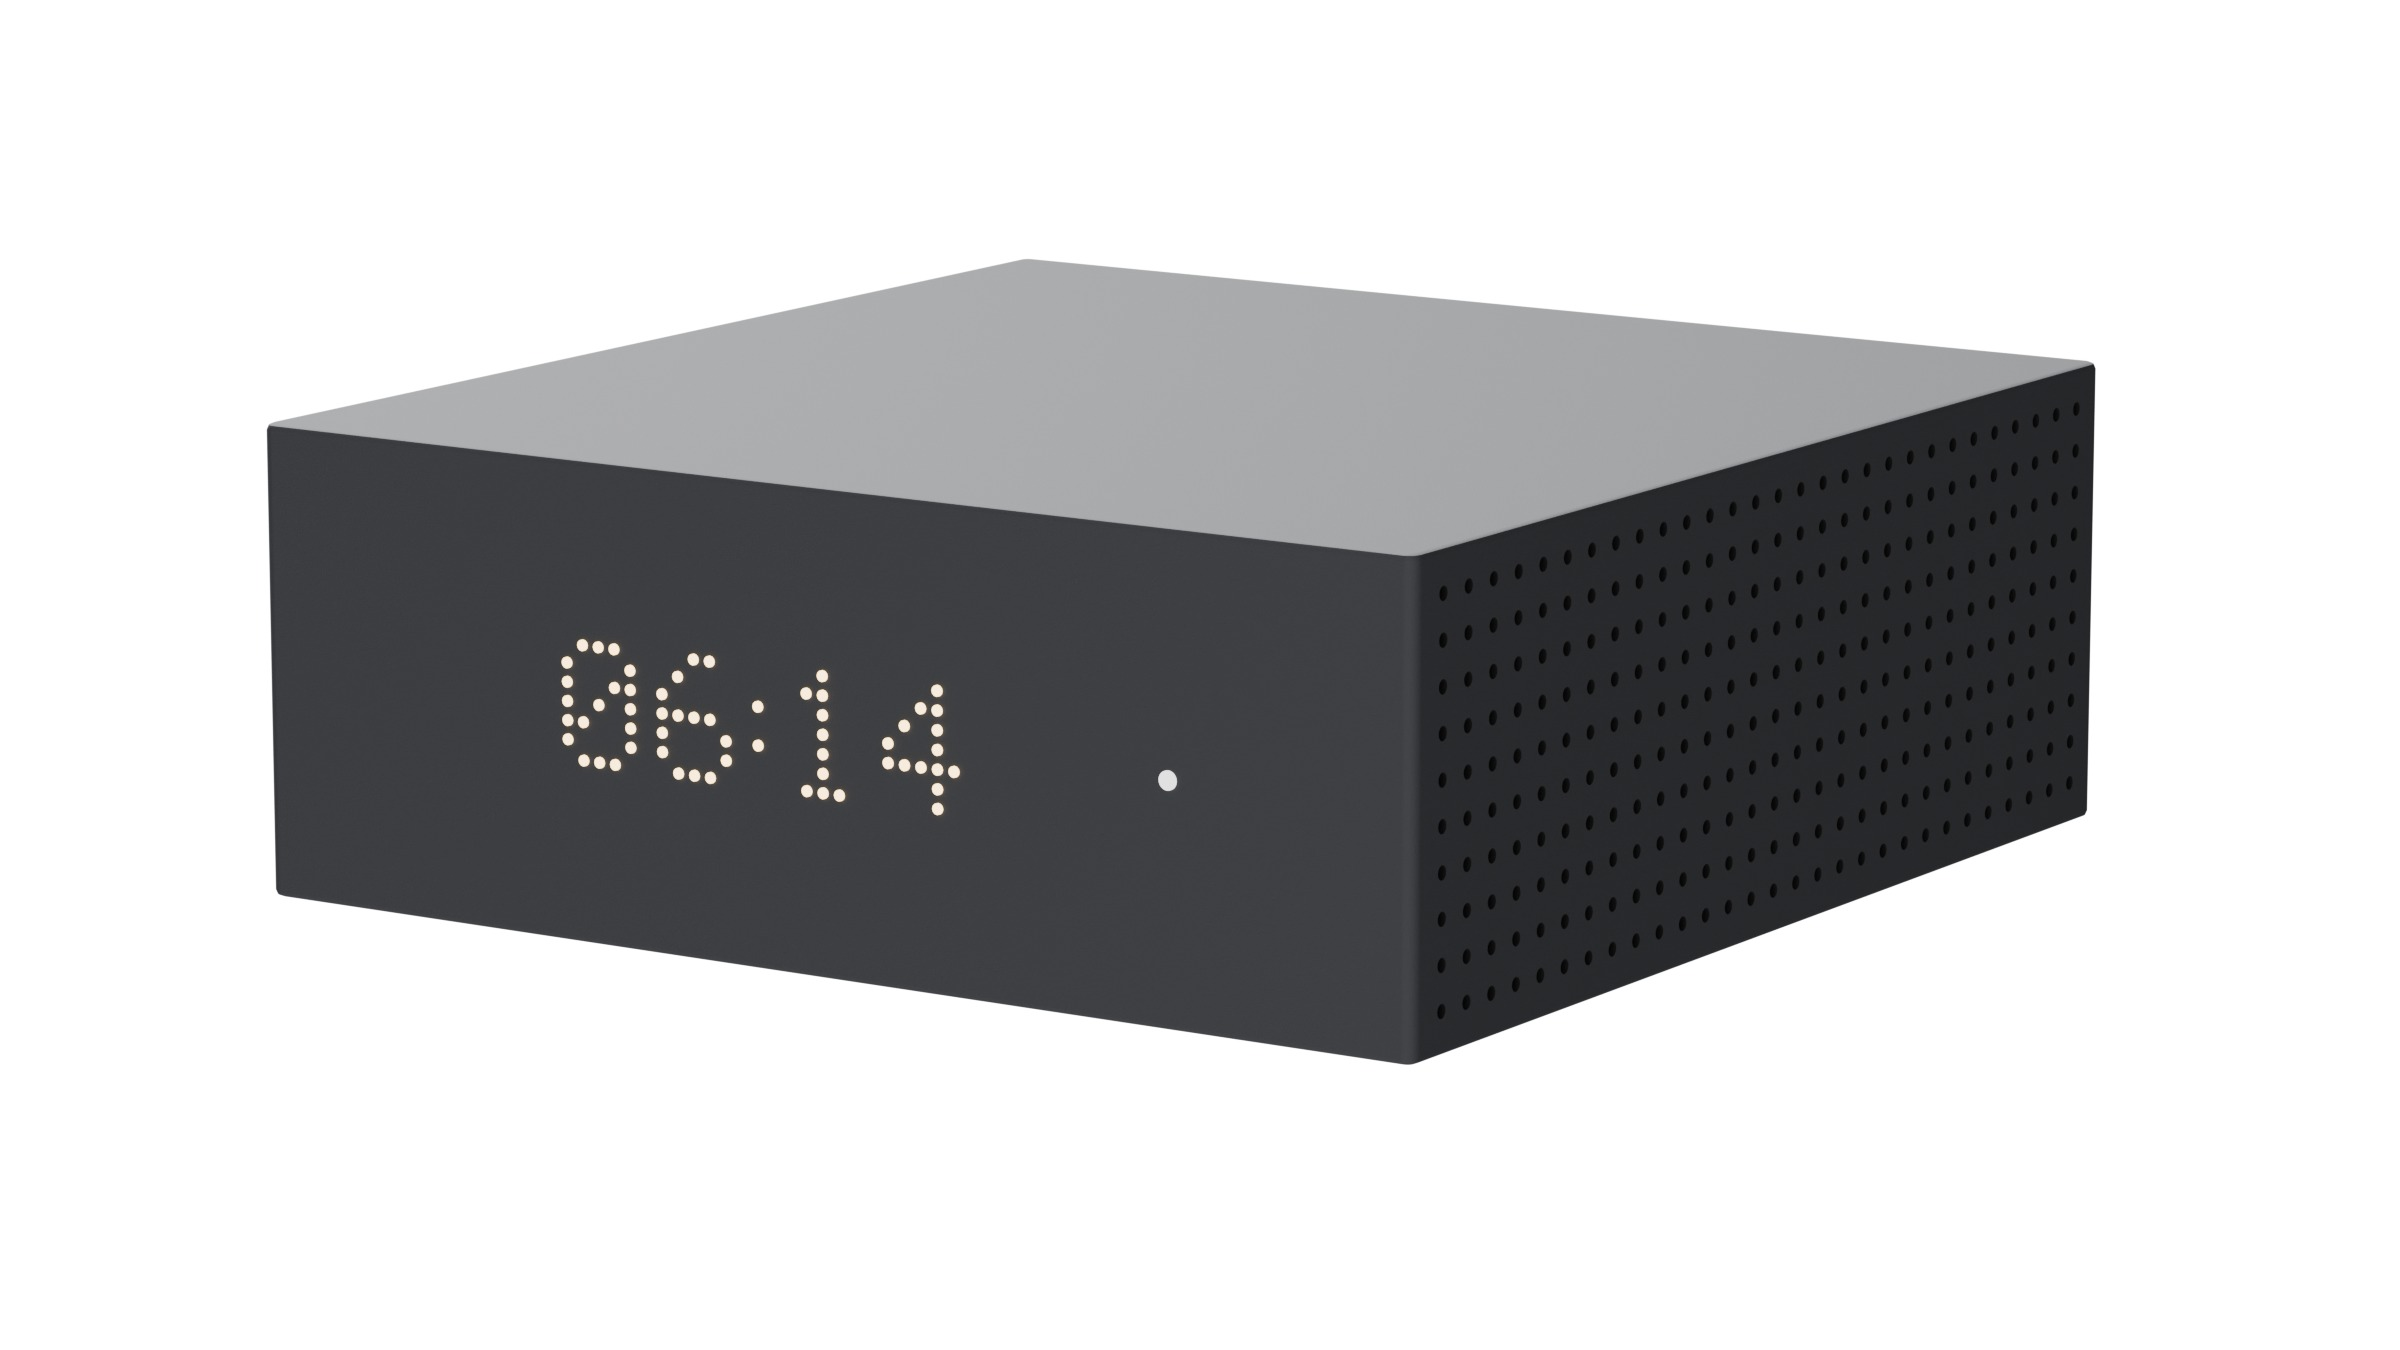
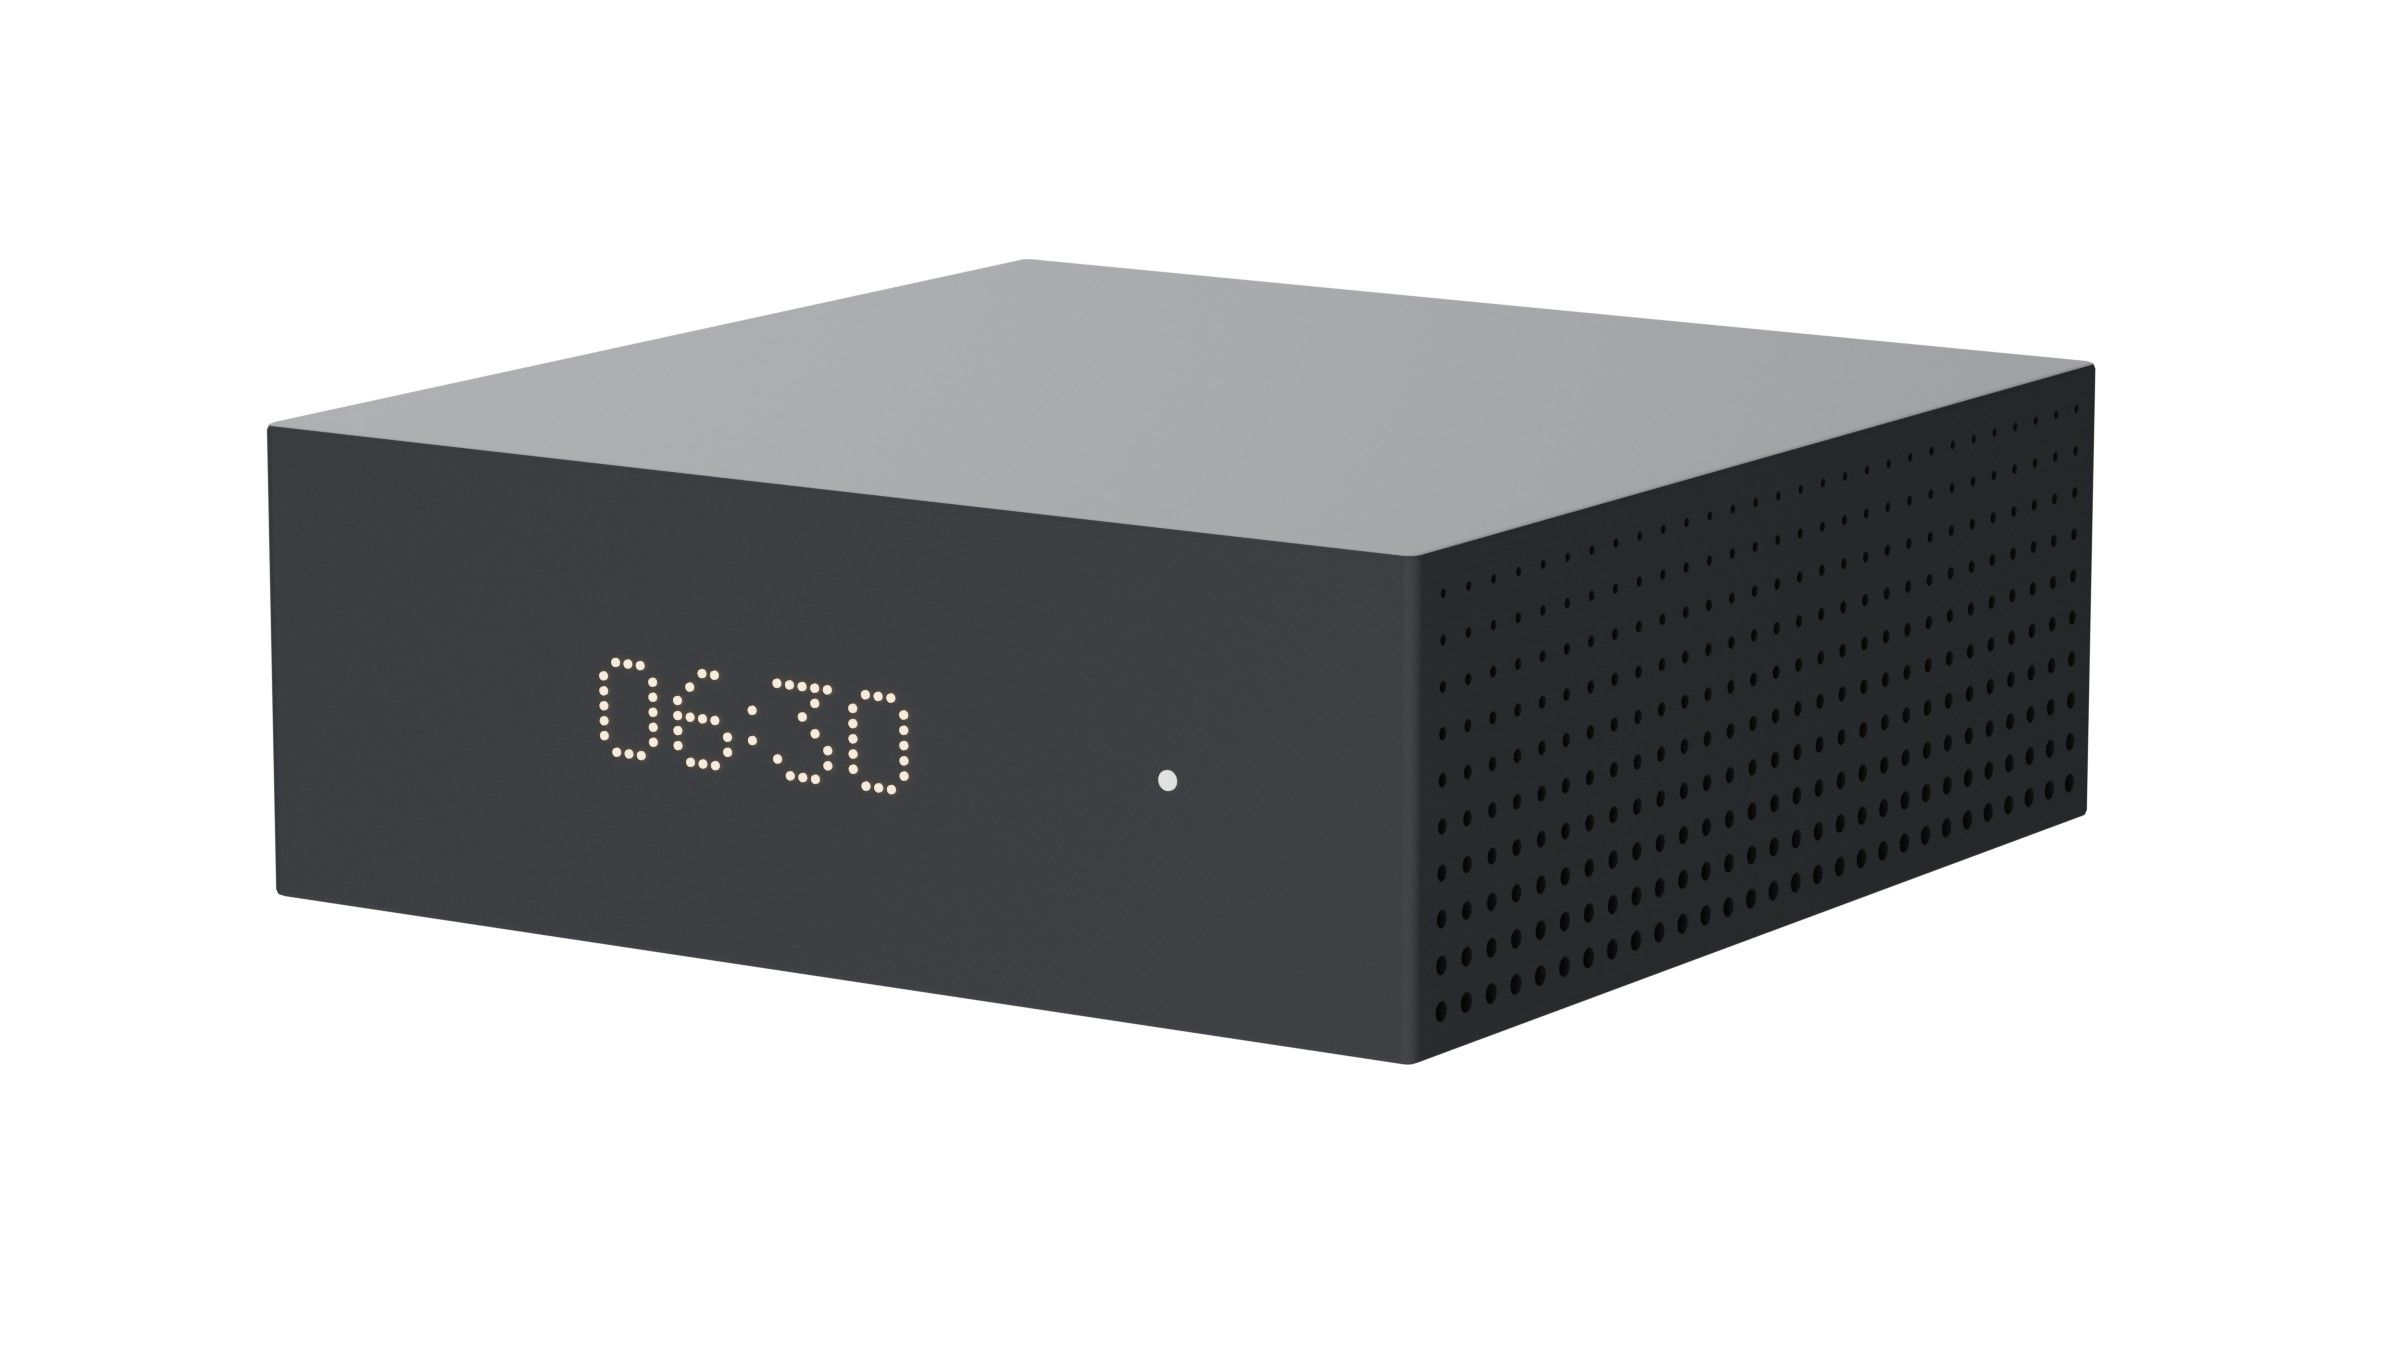
Deck: AuraWake renders with the time redone with the fine dot matrix

Changed region(s): [[0.2188, 0.4667, 0.4062, 0.5911]]

diff --git a/HANDOFF.md b/HANDOFF.md
@@ -1029,6 +1029,11 @@ When a CLOUD session hits something that needs the local environment, it must:
   speaker column, rows centred on MID; 25 × 7 dots, centre on column −5; 5×7 font with a plain 0; lit dot 0.72 mm
   behind ~0.1 mm laser micro-holes (invisible when off). Re-rendered views/lit.jpg, new views/time.jpg (3/4 close-up),
   iso-base.png; schema key 2 points at the digits' left end.
+- **2026-10-29 · LOCAL (40)** · Renders with the time redone with the fine matrix: render-lit.jpg (= views/lit.jpg),
+  render-dawn.jpg (dawn scene, plastic). Proposal sketch (deck/out/back-sketch.png, not in the deck): back = both
+  free areas at the same 8.5 mm radius, laser-etched marks 2 mm tall at the same height, "5V ⎓ 3A" over the USB-C
+  and the Bluetooth rune over the button; underneath = name/model, input, radio IDs, serial, CE/UKCA/WEEE marks
+  below the rubber disc (FCC/IC numbers are placeholders). Waiting for the owner's OK before modelling it.
 
 - **2026-10-28 · LOCAL (33)** · LED renders: 3/4 close view of the front corner (the alarm reads), saturated state colours
   (`LED_SAT`: white #fff6ea, night #5f6dff, dawn #ffa938) at LOW emission (1.4; 6 for white) so AgX keeps the hue, plus
